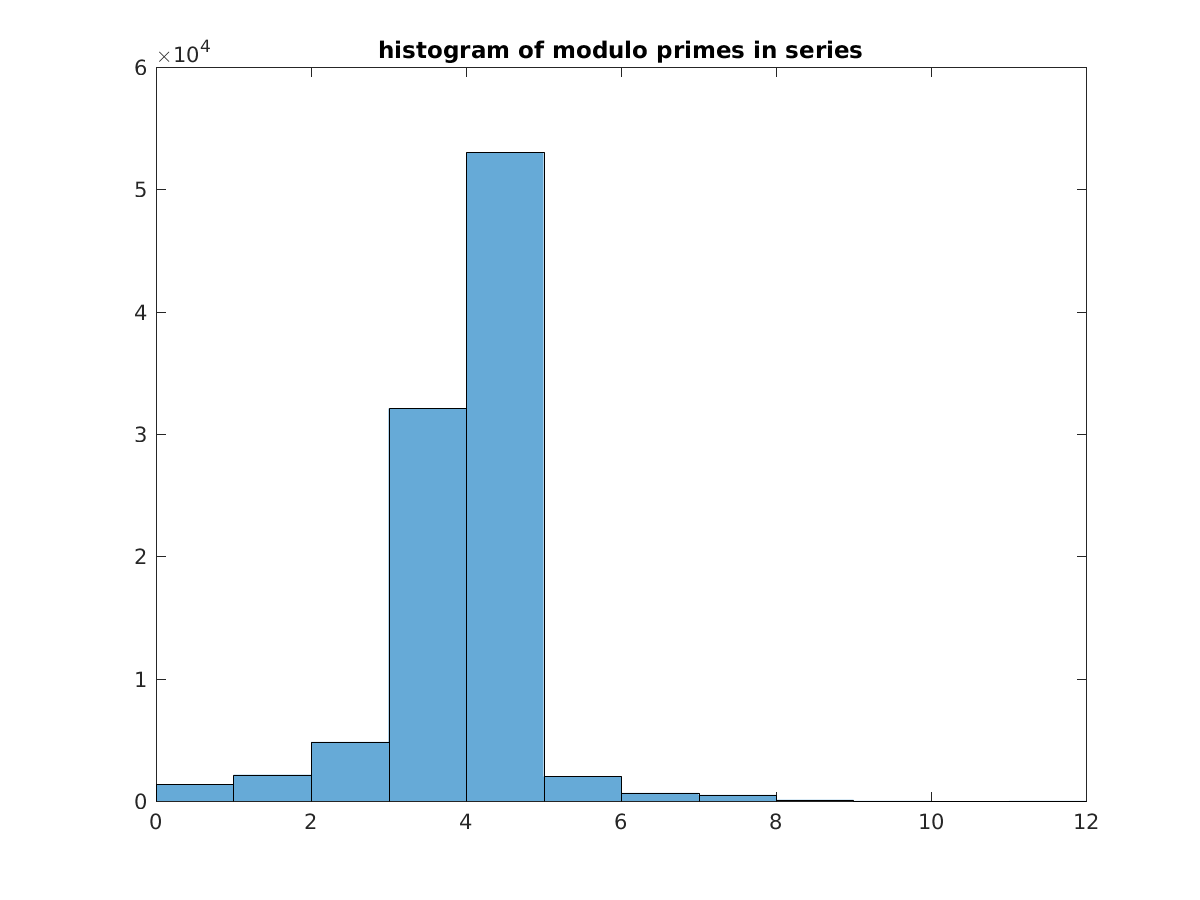
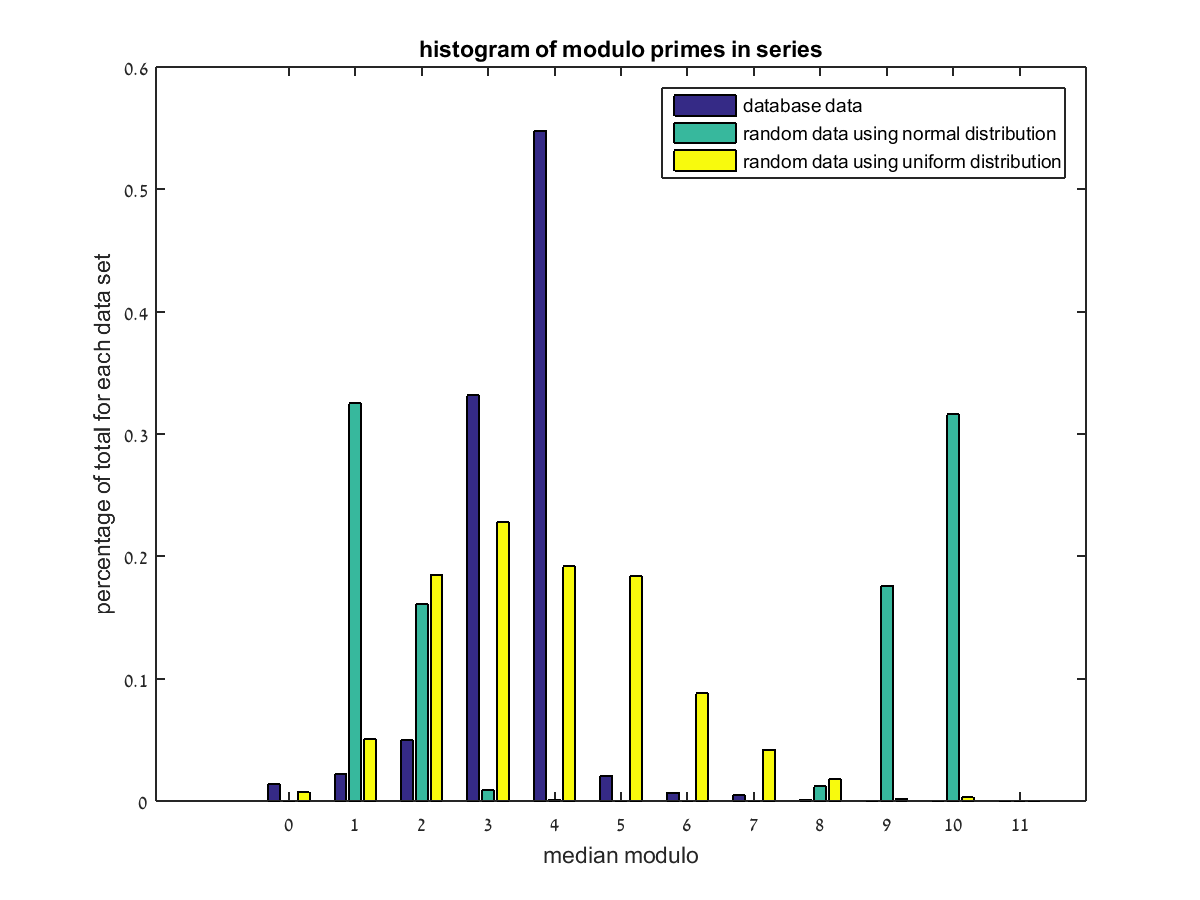
fixed getMedianModulo.m, added the new resulting figure

diff --git a/Filtering and summary statistics/getMedianModulo.m b/Filtering and summary statistics/getMedianModulo.m
@@ -1,20 +1,68 @@
-function [  ] = getMedianModulo( mat )
+function [  ] = getMedianModulo()
 %getMedianModulo 
 %finds modulo of first 10 primes for each number in sequence.
 %computes median for each number and then for each seqience for on
 %aforementioned median
+load cleaned_data;
+[x1,y1]=computeMedianModulo(cleaned_data);
+r2 = randn(1000,123);
+%hold on;
+
+[x2,y2]=computeMedianModulo(r2);
+
+r3 = min(cleaned_data(:)) + (max(cleaned_data(:))-min(cleaned_data(:)))*rand(1000,1);
+[x3,y3]=computeMedianModulo(r3);
+
+xLength = max(length(x1),length(x2));
+xLength=max(xLength,length(x3));
+
+
+dif12 =length(y1)-length(y2);
+if dif12>0
+    y2=[y2 zeros(dif12,1)];
+elseif dif12<0
+    y1=[y1 zeros(-dif12,1)];
+end
+
+dif23 = length(y3)-length(y2);
+if dif23>0
+    y2=[y2 zeros(dif,1)];
+elseif dif23<0
+    y3=[y3 zeros(-dif23,1)];
+end
+
+dif13 = length(y3)-length(y1);
+if dif13>0
+    y1=[y1 zeros(dif,1)];
+elseif dif13<0
+    y3=[y3 zeros(-dif13,1)];
+end
+%set(gca,'XTickLabel',{int2str((0:1:xLength-1))})
+newX1 = (0:1:xLength-1)';
+
+bar(newX1 ,[y1' y2' y3'])
+
+title('histogram of modulo primes in series');
+legend('database data','random data using normal distribution','random data using uniform distribution')
+ylabel('percentage of total for each data set');
+xlabel('median modulo');
+
+saveas(gcf,'moduloPrimes.png');
+
+
+end
+function [x, y] =computeMedianModulo(mat)
 primes10 = [2,3,5,7,11,13,17,19,23,29];
 all = zeros(size(mat,1),size(mat,2),10);
 for i=1:length(primes10)
    all(:,:,i)=mod(mat,primes10(i)); 
 end
-medianNUmber = median(all,3,'omitnan');
-medianSequence = median(medianNUmber,2,'omitnan');
+medianNumber = median(all,3,'omitnan');
+medianSequence = median(medianNumber,2,'omitnan');
 h = histogram(medianSequence,(0:1:max(medianSequence)+1));
-title('histogram of modulo primes in series');
-
-saveas(gcf,'moduloPrimes.png');
-
-
+normalizedHeight = h.Values/sum(h.Values);
+x=(0:1:max(medianSequence));
+y=normalizedHeight;
+%bar((0:1:max(medianSequence)),normalizedHeight)
 end
 
